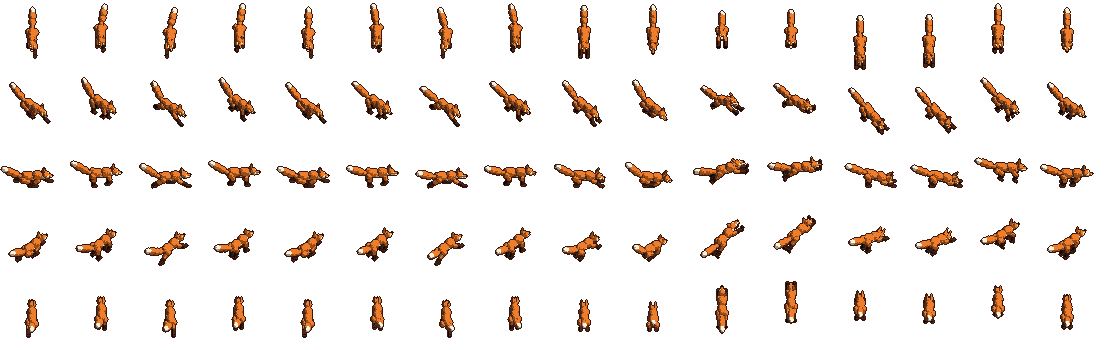
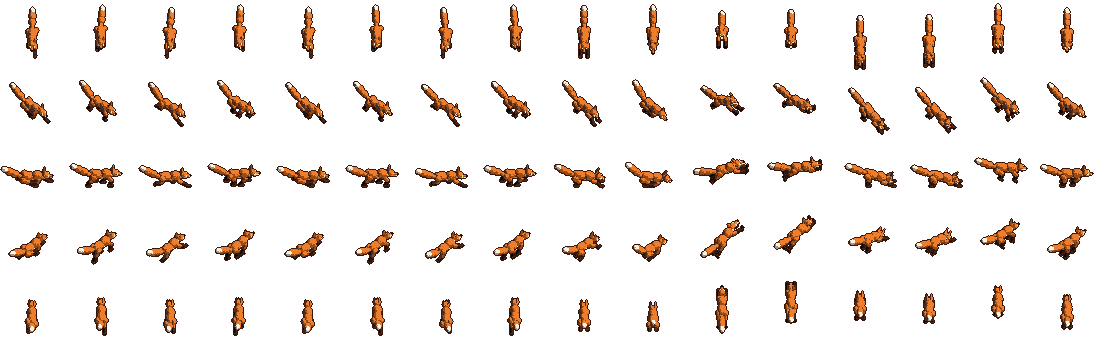
v2: Raposa em galope de verdade (passada de 44 a 66 px, tempo de voo) + asserts e tira de 30 quadros
Andar: a passada fisica agora e longa de verdade. Cada par diagonal fica no chao so 30% da passada (DUTY 0,30, galope com tempo de
voo), entao o corpo anda 2A/DUTY por passada (6,2 unidades, antes 3,7) sem esticar perna nem mexer na vel da carta. A folha segue com
2 passadas em 8 quadros. Medido nos pixels: passada de frente/costas 26 -> 44 px (4,5 passadas/s na vel 200, antes 7,7), 3/4 54, lado
66; ciclo_linha 88,4/108,8/132,2/115,4/88,4. O pe de apoio nao escorrega (desvio medido no meio do apoio <= 1 px).
Cauda e cabeca balancam so uns 3 px, e os quadros q e q+4 de frente/costas tem a mesma altura e base.
Ataque: nao mudou (colunas 8-15 identicas).
Teste v2_andante: assert de que os tempos do ataque cabem no tique da carta e de que a passada real <= 5/s na vel da carta; novo modo
-- --tira=PASTA grava 30 quadros seguidos do jogo (frente, costas, lado) e o quadro da folha em cada um.

diff --git a/jogos/hordas/fonte_arte/blender_raposa/gerar_raposa.py b/jogos/hordas/fonte_arte/blender_raposa/gerar_raposa.py
@@ -1,4 +1,4 @@
-"""Espírito Raposa (aliado "espirito_raposa") em 3D procedural, 5 vistas, ANDAR (trote rápido) e ATAQUE (bote: agacha, salta e cai com as patas sobre o inimigo).
+"""Espírito Raposa (aliado "espirito_raposa") em 3D procedural, 5 vistas, ANDAR (galope rápido) e ATAQUE (bote: agacha, salta e cai com as patas sobre o inimigo).
 
 Mesmo esquema de câmera dos monstros v2, do Golem e do Urso: 45 graus, ortográfica, 24,5 px por unidade, vistas 0/45/90/135/180
 (frente, 3/4 frente, lado, 3/4 costas, costas), o bicho olhando para a DIREITA (o jogo espelha para a esquerda).
@@ -6,7 +6,8 @@ Raposa laranja esguia, de patas escuras, orelhas grandes, olhos dourados e uma c
 névoa, brilho, faíscas, dissolver) é feito em código, em v2/andante.gd, por cima desta folha.
 
 Saída: projeto/assets/v2/armas/raposa_espiritual_dir.png, 16 colunas x 5 linhas de quadros do mesmo tamanho:
-  colunas 0-7  = ciclo de ANDAR (trote: pares diagonais, 2 PASSADAS de 4 quadros por ciclo, pisadas nos quadros 2/4/6/0, patas afastadas; o 2 também é o "parado"),
+  colunas 0-7  = ciclo de ANDAR (galope de pares diagonais, com tempo de voo: 2 PASSADAS de 4 quadros por ciclo, cada par pousa nos quadros 2/4/6/0 e fica no chão
+                 ~30% da passada, então a passada tem 44 px de frente e 66 de lado; o 2 também é o "parado"),
   colunas 8-15 = ATAQUE (8 agacha, 9 se encolhe, 10 salta, 11 pico do salto com a boca aberta, 12 BOTE = impacto, as patas da frente no chão,
                  13 pousa, 14 pulinho para trás, 15 assenta). O corpo vai para a frente DENTRO do quadro (o bicho não anda durante o ataque): o salto está na folha.
   linhas       = frente, 3/4 frente, lado, 3/4 costas, costas.
@@ -44,8 +45,9 @@ PPU = 24.5               # igual aos monstros v2, ao herói e ao Golem
 ESCALA = 0.42            # escala geral do modelo (bem menor que o urso, que é 0,80)
 VISTAS = (0.0, 45.0, 90.0, 135.0, 180.0)
 ANDAR = 8
-PASSADA = 4              # quadros de UMA passada (os 2 pares de patas pisam uma vez): a folha traz 2 passadas em 8 quadros, então o jogo só troca de quadro
-                         # a cada 2 pisadas e a passada em pixels (ciclo_linha) é o dobro: de frente/costas, onde ela é curta na tela, não pisca
+PASSADA = 4              # quadros de UMA passada (os 2 pares de patas pisam uma vez): a folha traz 2 passadas em 8 quadros (o `ciclo_linha` é o das 2)
+DUTY = 0.30              # fração da passada em que cada par de patas fica no chão (< 0,5 = GALOPE com tempo de voo): o corpo anda 2A/DUTY por passada,
+                         # então a passada fica ~1,6x a do trote (de frente/costas passa de 40 px na tela) sem esticar as pernas nem mexer na vel da carta
 ATAQUE = 8
 IMPACTO = 4
 PARADO = 2
@@ -170,7 +172,7 @@ MEMBROS = (
     "tronco", "cabeca", "mandibula", "cauda",
 )
 
-# Andar (trote): o pé é posicionado: no apoio ele corre para trás em linha reta, em S/4 por quadro, e o corpo avança a velocidade constante,
+# Andar (galope): o pé é posicionado: no apoio ele corre para trás em linha reta, em S/4 por quadro (S = 2A/DUTY), e o corpo avança a velocidade constante,
 # então o pé NÃO escorrega. Mesma conta do Urso; os pares diagonais (frente-esquerda com trás-direita) andam juntos, meio ciclo defasados.
 L = QUADRIL_Z - T_Z                 # do quadril ao tornozelo (a perna esticada)
 L2 = J_Z                            # do joelho ao chão (para a flexão do joelho)
@@ -186,11 +188,12 @@ def _suave(t):
 
 
 def _perna(phi):
-    """phi 0..1 = fase da perna (0 = a pata encosta à frente). Devolve (u = pata à frente do quadril, apoio?, progresso do balanço 0..1)."""
+    """phi 0..1 = fase da perna (0 = a pata encosta à frente). Devolve (u = pata à frente do quadril, apoio?, progresso do balanço 0..1).
+    No apoio (DUTY da passada) o pé corre de +A a -A em linha reta, na velocidade do corpo (2A/DUTY por passada): não escorrega."""
     phi %= 1.0
-    if phi < 0.5:
-        return A * (1.0 - 4.0 * phi), True, 0.0
-    psi = (phi - 0.5) * 2.0
+    if phi < DUTY:
+        return A * (1.0 - 2.0 * phi / DUTY), True, 0.0
+    psi = (phi - DUTY) / (1.0 - DUTY)
     return -A + 2.0 * A * _suave(psi), False, psi
 
 
@@ -220,7 +223,7 @@ def pose(J, q):
     if q < ANDAR:
         est, z_corpo = passo(q)
         f = 2.0 * math.pi * (q - 1) / PASSADA        # balanço do corpo: um por passada (o lado do apoio: +1 no quadro 1, -1 no 3)
-        f8 = 2.0 * math.pi * q / ANDAR               # cauda: balança mais devagar, uma vez por 2 passadas (os quadros q e q+4 não ficam idênticos)
+        f8 = 2.0 * math.pi * q / ANDAR               # cauda e cabeça: balançam bem pouco, uma vez por 2 passadas (os quadros q e q+4 quase iguais)
         for n, par in PARES.items():
             e = est[par]
             teta, joelho, sobe = e["teta"], 0.0, 0.0
@@ -238,8 +241,8 @@ def pose(J, q):
         lado_ap = math.cos(f)
         corpo.location = (BALANCO_X * lado_ap, 0, z_corpo)
         tronco.rotation_euler = (0, -ROLL * lado_ap, 0.03 * math.sin(f))   # sem arfar o tronco: as patas da frente saem do chão se ele inclina
-        J["cabeca"].rotation_euler = (0.10 + 0.05 * math.cos(2 * f), 0, -0.08 * math.sin(f8))
-        J["cauda"].rotation_euler = (0.25 + 0.12 * math.sin(2 * f), 0, 0.28 * math.sin(f8))
+        J["cabeca"].rotation_euler = (0.10, 0, -0.04 * math.sin(f8))
+        J["cauda"].rotation_euler = (0.25, 0, 0.12 * math.sin(f8))
         corpo.rotation_euler = (0, 0.0, -0.04 * math.sin(f))
     else:
         _ataque(J, q - ANDAR)
@@ -335,13 +338,14 @@ def diag(J, cam=None):
             cs = [o.matrix_world @ Vector(c) for c in o.bound_box]
             linha.append("%s z=%.3f frente=%.3f" % (n, min(c.z for c in cs) / ESCALA, -sum(c.y for c in cs) / 8.0 / ESCALA))
         print("DIAG q=%d  %s   corpo_z=%.3f" % (q, "   ".join(linha), J["corpo"].location.z))
-    print("DIAG A=%.4f separacao=%.4f ciclo_px=%.2f" % (A, 2 * A, ANDAR * A * ESCALA * PPU))
+    print("DIAG A=%.4f separacao=%.4f ciclo_px=%.2f" % (A, 2 * A, ANDAR * 2 * A / DUTY / PASSADA * ESCALA * PPU))
 
 
 def medir_apoio(J, cena, cam, W, H):
-    """A pata de apoio (a frente-esquerda, quadros 2 a 4) como a câmera a vê, medida NOS PIXELS: com o resto do corpo escondido, renderiza só a pata em
-    cada vista e pega o centro do contorno. Devolve (ciclo_linha, deslize, pes): `ciclo_linha[v]` = px que o corpo anda por ciclo de andar na vista v
-    (4 x o deslocamento da pata de apoio entre os quadros 2 e 4: o apoio dura 2 quadros e o corpo anda 8 quadros por ciclo); `deslize[v]` = o quanto a pata sai da reta (px); `pes[v]` = [x, y] nos quadros 2 a 4
+    """A pata de apoio (a frente-esquerda: pousa no quadro 2 e ainda está no chão no 3) como a câmera a vê, medida NOS PIXELS: com o resto do corpo escondido,
+    renderiza só a pata em cada vista e pega o centro do contorno nos quadros 2, 2,5 e 3. Devolve (ciclo_linha, deslize, pes): `ciclo_linha[v]` = px que o
+    corpo anda por ciclo de andar (8 quadros = 2 passadas) na vista v (8 x o deslocamento da pata de apoio entre os quadros 2 e 3: a cada quadro o corpo
+    anda o mesmo que a pata corre para trás); `deslize[v]` = o quanto o meio (2,5) sai da reta entre o 2 e o 3 (px); `pes[v]` = [x, y] nos 3 pontos
     (x já espelhado, como na folha)."""
     raiz = J["raiz"]
     malhas = [o for o in bpy.data.objects if o.type == "MESH"]
@@ -352,17 +356,16 @@ def medir_apoio(J, cena, cam, W, H):
         for o in malhas:
             o.hide_render = o is not pe
         pts = []
-        for q in range(2, 2 + PASSADA // 2 + 1):
+        for q in (2.0, 2.5, 3.0):
             pose(J, q)
             cx = px3.caixa_alfa(px3.render_rgba())
             pts.append(((cx[0] + cx[2]) / 2.0, (cx[1] + cx[3]) / 2.0))
         for o in malhas:
             o.hide_render = False
         pts = [(W - 1 - x, y) for x, y in pts]
-        a, b = np.array(pts[0]), np.array(pts[-1])
-        ciclos.append(round(ANDAR / (PASSADA / 2.0) * float(np.linalg.norm(b - a)), 1))
-        reta = [a + (b - a) * (i / float(len(pts) - 1)) for i in range(len(pts))]
-        desl.append(round(max(float(np.linalg.norm(np.array(p) - r)) for p, r in zip(pts, reta)), 2))
+        a, m, b = (np.array(p) for p in pts)
+        ciclos.append(round(ANDAR * float(np.linalg.norm(b - a)), 1))
+        desl.append(round(float(np.linalg.norm(m - (a + b) / 2.0)), 2))
         pes.append([[round(x, 1), round(y, 1)] for x, y in pts])
     return ciclos, desl, pes
 
@@ -447,7 +450,8 @@ def main():
             "alcance_pata_px": round(alcance * ESCALA * PPU, 1),
             "linhas": ["frente", "tres_quartos_frente", "lado", "tres_quartos_costas", "costas"]}
     for destino in (os.path.join(AQUI, NOME + ".json"), os.path.join(SAIDA, NOME + ".json")):
-        with open(destino, "w", encoding="utf-8") as f:
+        with open(destino, "w", encoding="utf-8", newline="
+") as f:
             json.dump(info, f, indent=1)
             f.write("\n")
     print("RAPOSA OK", W, H, pe_x, pe_y, "alcance_pata", info["alcance_pata_px"], "z_baixo", round(z_baixo, 3))

diff --git a/jogos/hordas/fonte_arte/blender_raposa/LEIA-ME.md b/jogos/hordas/fonte_arte/blender_raposa/LEIA-ME.md
@@ -6,7 +6,7 @@ blender -b -P gerar_raposa.py -- previa <png> [a|t|todas]  # prévia: a = só an
 blender -b -P gerar_raposa.py -- diag                      # sem render: o chão e as patas em cada quadro
 ```
 
-Gera `projeto/assets/v2/armas/raposa_espiritual_dir.png` (16 colunas x 5 linhas: andar 0-7 em trote, ataque 8-15 com o bote no 12; linhas frente,
+Gera `projeto/assets/v2/armas/raposa_espiritual_dir.png` (16 colunas x 5 linhas: andar 0-7 em galope (2 passadas, com tempo de voo), ataque 8-15 com o bote no 12; linhas frente,
 3/4 frente, perfil, 3/4 costas, costas) e o `.json` ao lado com o pé, a passada medida em pixels por vista e o alcance da pata (`alcance_pata_px`).
 No ataque o corpo vai para a frente dentro do quadro (o bicho não anda durante o golpe). O jogo usa a ficha `espirito_raposa` de
 `projeto/v2/andante.gd` (os números do `.json` copiados no código) e o teste `testes/v2_andante` confere que os dois batem. Mesmo esquema do Urso
